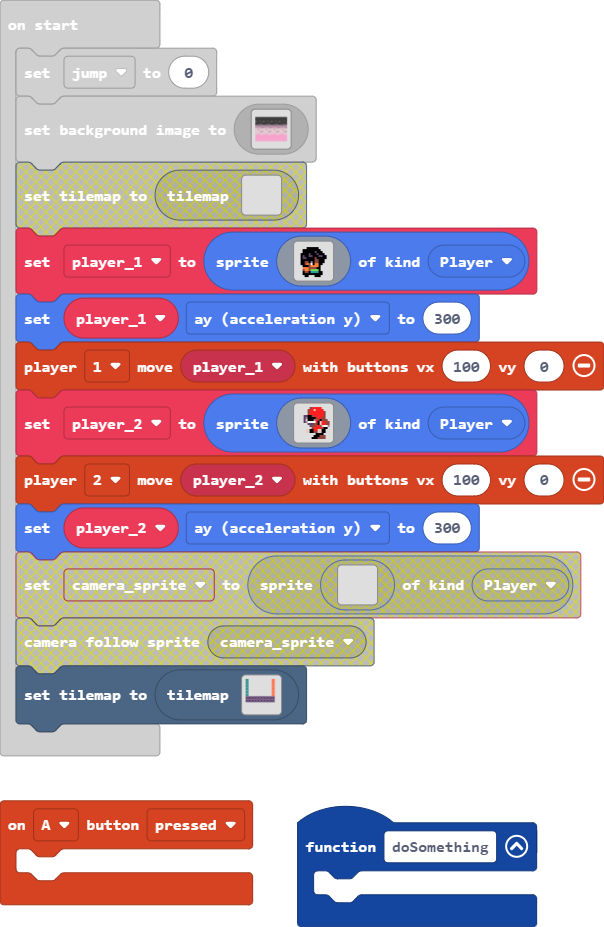
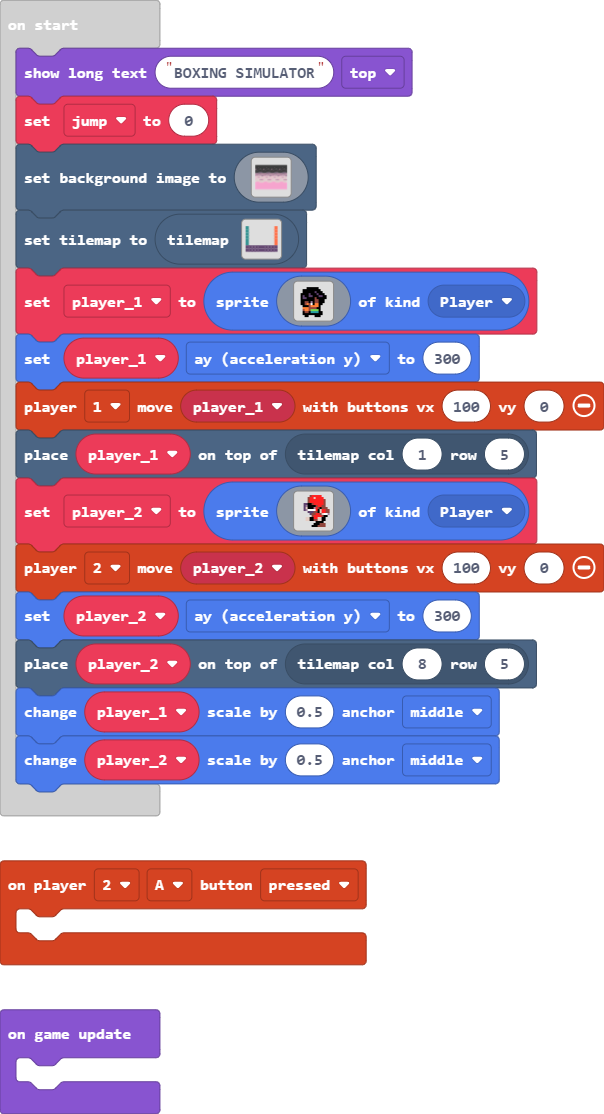
added more functions

diff --git a/tilemap.g.ts b/tilemap.g.ts
@@ -6,6 +6,8 @@ namespace myTiles {
     export const transparency16 = image.ofBuffer(hex``);
     //% fixedInstance jres blockIdentity=images._tile
     export const tile2 = image.ofBuffer(hex``);
+    //% fixedInstance jres blockIdentity=images._tile
+    export const tile3 = image.ofBuffer(hex``);
 
     helpers._registerFactory("tilemap", function(name: string) {
         switch(helpers.stringTrim(name)) {
@@ -85,20 +87,6 @@ namespace myTiles {
 . . . . . . . . . . . . . . . . 
 . . . . . . . . . . . . . . . . 
 `, [myTiles.transparency16], TileScale.Sixteen);
-            case "level4":
[1 lines of base64/hex data omitted]
-2 . . . . . . . . 2 . 
-2 . . . . . . . . 2 . 
-2 . . . . . . . . 2 . 
-2 . . . . . . . . 2 . 
-2 . . . . . . . . 2 . 
-2 . . . . . . . . 2 . 
-2 2 2 2 2 2 2 2 2 2 . 
-2 2 2 2 2 2 2 2 2 2 . 
-. . . . . . . . . . . 
-. . . . . . . . . . . 
-. . . . . . . . . . . 
-`, [myTiles.transparency16,sprites.dungeon.darkGroundSouthWest0,sprites.dungeon.darkGroundSouthEast0,sprites.dungeon.darkGroundNorthWest0,sprites.dungeon.darkGroundNorth,sprites.dungeon.darkGroundSouth,sprites.dungeon.collectibleRedCrystal,sprites.dungeon.collectibleBlueCrystal], TileScale.Sixteen);
             case "level6":
             case "level6":return tiles.createTilemap(hex`1000100000000000000000000000000000000000000000000000000000000000000000000000000000000000000000000000000000000000000000000000000000000000000000000000000000000000000000000000000000000000000000000000000000000000000000000000000000000000000000000000000000000000000000000000000000000000000000000000000000000000000000000000000000000000000000000000000000000000000000000000000000000000000000000000000000000000000000000000000000000000000000000000000000000000000000000000000000000000000000000000000000000000000000000000000000000000`, img`
 . . . . . . . . . . . . . . . . 
@@ -118,6 +106,55 @@ namespace myTiles {
 . . . . . . . . . . . . . . . . 
 . . . . . . . . . . . . . . . . 
 `, [myTiles.transparency16], TileScale.Sixteen);
+            case "level7":
+            case "level7":return tiles.createTilemap(hex`1000100000000000000000000000000000000000000000000000000000000000000000000000000000000000000000000000000000000000000000000000000000000000000000000000000000000000000000000000000000000000000000000000000000000000000000000000000000000000000000000000000000000000000000000000000000000000000000000000000000000000000000000000000000000000000000000000000000000000000000000000000000000000000000000000000000000000000000000000000000000000000000000000000000000000000000000000000000000000000000000000000000000000000000000000000000000000`, img`
+. . . . . . . . . . . . . . . . 
+. . . . . . . . . . . . . . . . 
+. . . . . . . . . . . . . . . . 
+. . . . . . . . . . . . . . . . 
+. . . . . . . . . . . . . . . . 
+. . . . . . . . . . . . . . . . 
+. . . . . . . . . . . . . . . . 
+. . . . . . . . . . . . . . . . 
+. . . . . . . . . . . . . . . . 
+. . . . . . . . . . . . . . . . 
+. . . . . . . . . . . . . . . . 
+. . . . . . . . . . . . . . . . 
+. . . . . . . . . . . . . . . . 
+. . . . . . . . . . . . . . . . 
+. . . . . . . . . . . . . . . . 
+. . . . . . . . . . . . . . . . 
+`, [myTiles.transparency16], TileScale.Sixteen);
+            case "level8":
+            case "level8":return tiles.createTilemap(hex`1000100000000000000000000000000000000000000000000000000000000000000000000000000000000000000000000000000000000000000000000000000000000000000000000000000000000000000000000000000000000000000000000000000000000000000000000000000000000000000000000000000000000000000000000000000000000000000000000000000000000000000000000000000000000000000000000000000000000000000000000000000000000000000000000000000000000000000000000000000000000000000000000000000000000000000000000000000000000000000000000000000000000000000000000000000000000000`, img`
+. . . . . . . . . . . . . . . . 
+. . . . . . . . . . . . . . . . 
+. . . . . . . . . . . . . . . . 
+. . . . . . . . . . . . . . . . 
+. . . . . . . . . . . . . . . . 
+. . . . . . . . . . . . . . . . 
+. . . . . . . . . . . . . . . . 
+. . . . . . . . . . . . . . . . 
+. . . . . . . . . . . . . . . . 
+. . . . . . . . . . . . . . . . 
+. . . . . . . . . . . . . . . . 
+. . . . . . . . . . . . . . . . 
+. . . . . . . . . . . . . . . . 
+. . . . . . . . . . . . . . . . 
+. . . . . . . . . . . . . . . . 
+. . . . . . . . . . . . . . . . 
+`, [myTiles.transparency16], TileScale.Sixteen);
+            case "level4":
[1 lines of base64/hex data omitted]
+2 . . . . . . . . 2 
+2 . . . . . . . . 2 
+2 . . . . . . . . 2 
+2 . . . . . . . . 2 
+2 . . . . . . . . 2 
+2 . . . . . . . . 2 
+2 2 2 2 2 2 2 2 2 2 
+2 2 2 2 2 2 2 2 2 2 
+`, [myTiles.transparency16,sprites.dungeon.darkGroundSouthWest0,sprites.dungeon.darkGroundSouthEast0,sprites.dungeon.darkGroundNorthWest0,sprites.dungeon.darkGroundNorth,sprites.dungeon.darkGroundSouth,sprites.dungeon.collectibleRedCrystal,sprites.dungeon.collectibleBlueCrystal,sprites.dungeon.darkGroundNorthEast0,myTiles.tile2,myTiles.tile3], TileScale.Sixteen);
         }
         return null;
     })
@@ -127,6 +164,8 @@ namespace myTiles {
             case "tile1":return tile1;
             case "transparency16":return transparency16;
             case "tile2":return tile2;
+            case "myTile":
+            case "tile3":return tile3;
         }
         return null;
     })

diff --git a/main.ts b/main.ts
@@ -1,9 +1,13 @@
 controller.A.onEvent(ControllerButtonEvent.Pressed, function () {
 	
 })
+controller.player2.onButtonEvent(ControllerButton.A, ControllerButtonEvent.Pressed, function () {
+	
+})
 function doSomething () {
 	
 }
+game.showLongText("BOXING SIMULATOR", DialogLayout.Top)
 let jump = 0
 scene.setBackgroundImage(img`
     ffffffffffffffffffffffffffffffffffffffffffffffffffffffffffffffffffffffffffffffffffffffffffffffffffffffffffffffffffffffffffffffffffffffffffffffffffffffffffffffff
@@ -148,6 +152,7 @@ let player_1 = sprites.create(img`
     `, SpriteKind.Player)
 player_1.ay = 300
 controller.player1.moveSprite(player_1, 100, 0)
+tiles.placeOnTile(player_1, tiles.getTileLocation(1, 5))
 let player_2 = sprites.create(img`
     . . . . . . e 2 2 2 2 2 . . . . 
     . . . . . e 2 2 d 2 2 2 2 . . . 
@@ -168,3 +173,9 @@ let player_2 = sprites.create(img`
     `, SpriteKind.Player)
 controller.player2.moveSprite(player_2, 100, 0)
 player_2.ay = 300
+tiles.placeOnTile(player_2, tiles.getTileLocation(8, 5))
+player_1.changeScale(0.5, ScaleAnchor.Middle)
+player_2.changeScale(0.5, ScaleAnchor.Middle)
+game.onUpdate(function () {
+	
+})
